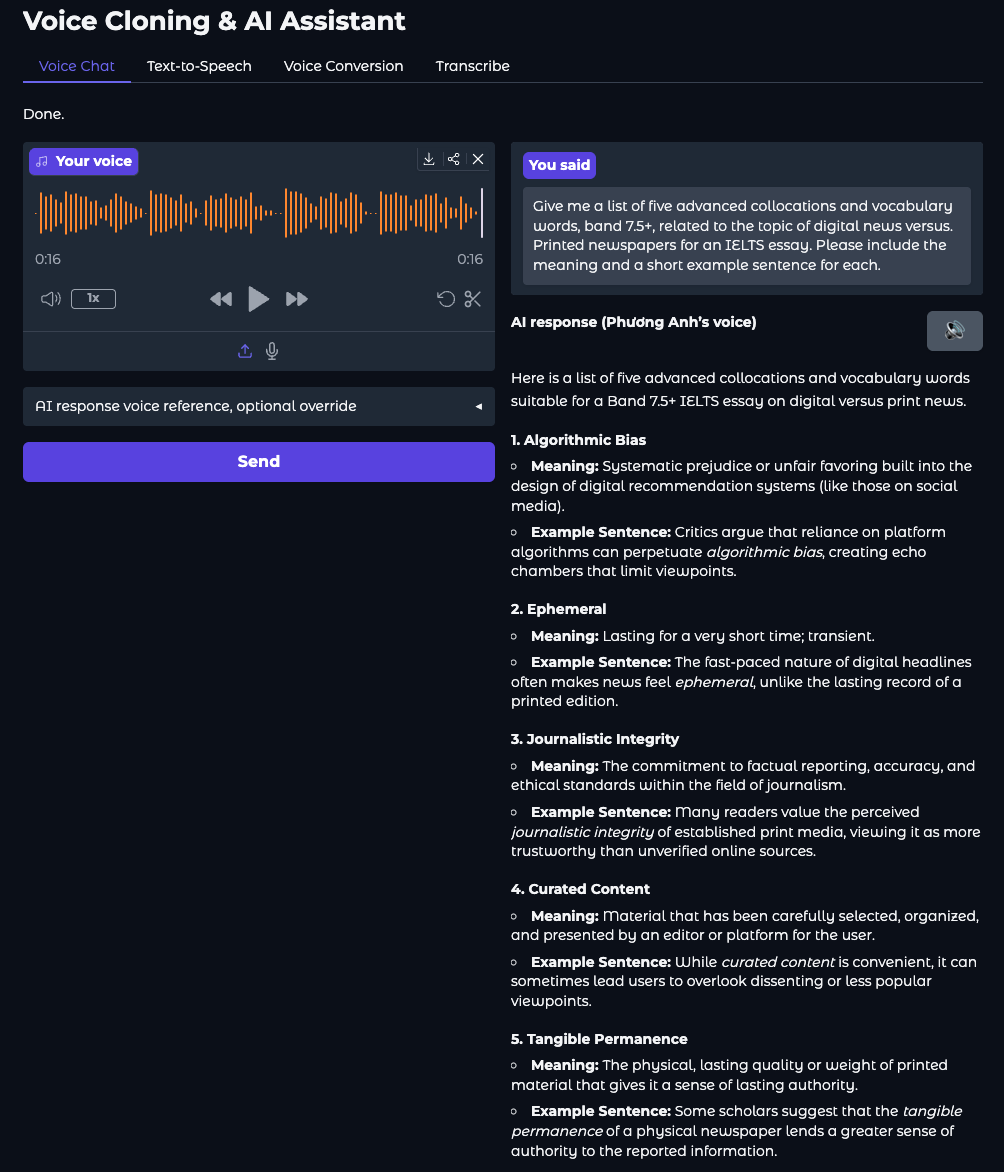
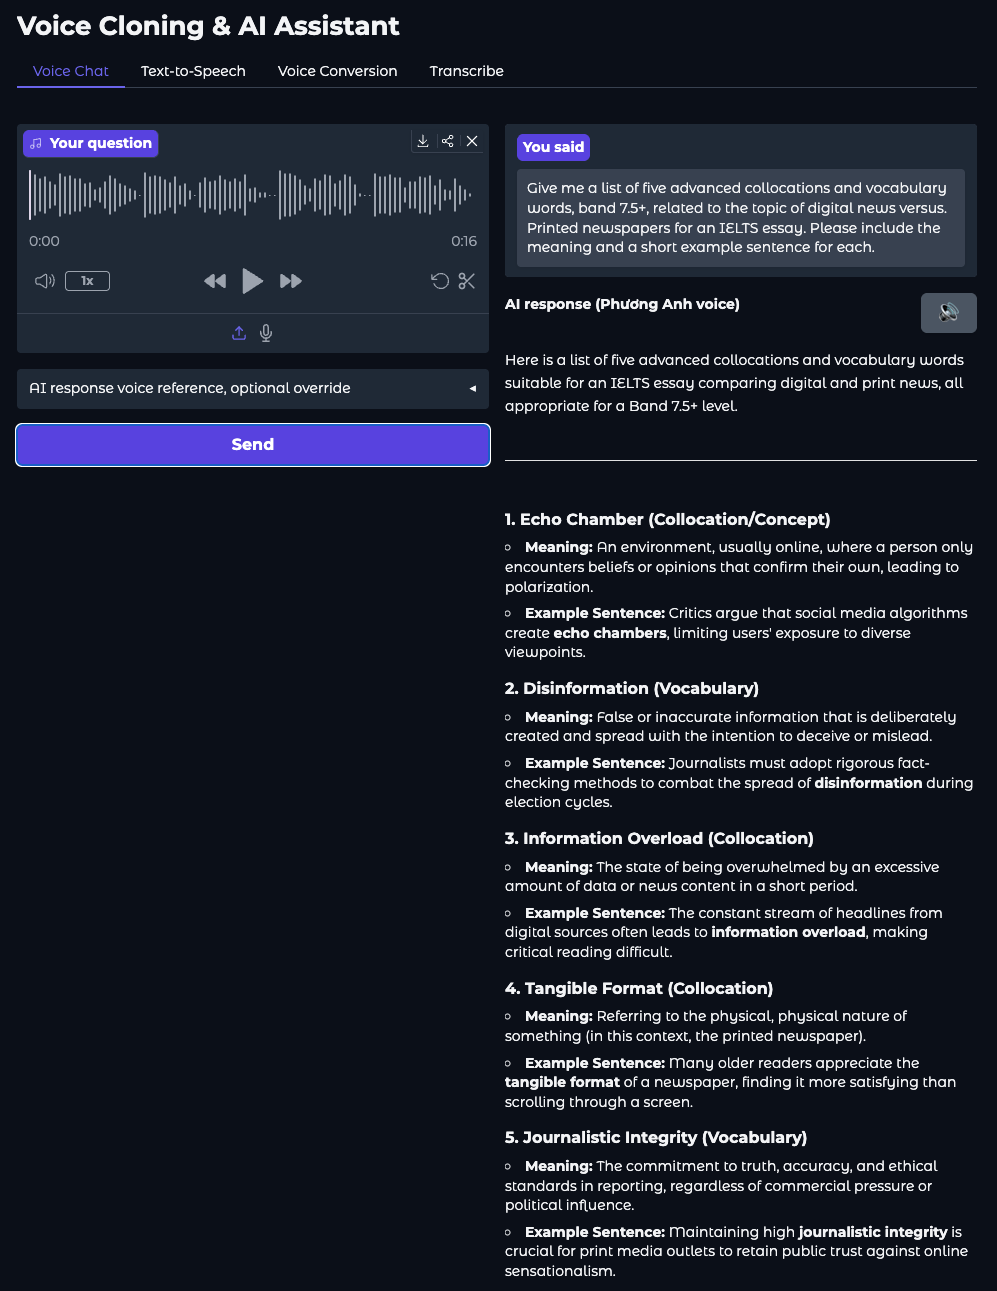
chore: update chat ux, readme, add ref transcript

Changed region(s): [[0.0, 0.0, 0.995, 1.0], [0.4353, 0.0307, 0.4975, 0.0614]]

diff --git a/ui/app.py b/ui/app.py
@@ -101,7 +101,7 @@ def on_chat(
         yield "Error: AI returned an empty response.", user_text, "", "", None
         return
 
-    yield "Done.", user_text, ai_text, ai_text, None
+    yield "", user_text, ai_text, ai_text, None
 
 
 def on_chat_speak(
@@ -267,7 +267,7 @@ def build_app() -> gr.Blocks:
                         chat_audio_in = gr.Audio(
                             sources=["microphone", "upload"],
                             type="filepath",
-                            label="Your voice",
+                            label="Your question",
                         )
                         with gr.Accordion(
                             "AI response voice reference, optional override", open=False

diff --git a/README.md b/README.md
@@ -6,13 +6,19 @@ Zero shot voice cloning: Clone any voice from a 10 to 30s audio sample. No train
 
 ## Demo
 
-**AI assistant:** LLM is **Gemma**
+**Assistant:** **Google Gemma 4** via [Ollama](https://ollama.com) + [Anything-LLM](https://github.com/Mintplex-Labs/anything-llm).
 
 ![Demo UI](docs/images/demo.png)
 
-**Voice cloning:** (reference audio -> cloned speech). Default: `audio/reference/phuong_anh.wav` (my friend’s voice, with no voice licensing).
+**Voice cloning:** short reference clip -> speech in that timbre.
 
 <video src="https://github.com/user-attachments/assets/350ab4ae-8efc-4d35-9ed3-310042c8ef68" controls width="100%"></video>
+
+### Bundled timbre
+
+**Phương Anh** (my special friend; personal recording for this repo, with permission).
+
+Your own clip: paths and transcript in `.env` (see [`.env.example`](.env.example)).
 
 ## Stack
 
@@ -21,7 +27,7 @@ Zero shot voice cloning: Clone any voice from a 10 to 30s audio sample. No train
 | STT | [SYSTRAN/faster-whisper](https://github.com/SYSTRAN/faster-whisper) |
 | TTS | [fishaudio/fish-speech](https://github.com/fishaudio/fish-speech) + [pnnbao97/VieNeu-TTS](https://github.com/pnnbao97/VieNeu-TTS) |
 | Voice Conversion | [IAHispano/Applio](https://github.com/IAHispano/Applio) (RVC) |
-| LLM | [Google Gemma](https://ai.google.dev/gemma) (e.g. Gemma 4 via [Ollama](https://ollama.com)) + [Anything-LLM](https://github.com/Mintplex-Labs/anything-llm) |
+| LLM | [Gemma 4](https://ai.google.dev/gemma) via [Ollama](https://ollama.com) + [Anything-LLM](https://github.com/Mintplex-Labs/anything-llm) |
 | Backend | [FastAPI](https://github.com/fastapi/fastapi) + [Pydantic](https://github.com/pydantic/pydantic) |
 | Frontend | [Gradio](https://github.com/gradio-app/gradio) |
 
@@ -55,12 +61,12 @@ Zero shot voice cloning: Clone any voice from a 10 to 30s audio sample. No train
 | Voice conversion | `/convert-voice` | `WAV + RVC .pth -> RVC -> converted WAV` |
 | Conversation (one shot) | `/chat` | `Mic -> STT -> LLM -> TTS -> WAV`. E.g. `make chat_sample`, `api_client.chat()` |
 | LLM only | `/llm/chat` | JSON `{"message": "..."}` -> assistant text (proxied to `:8004`) |
-| Voice Chat (Gradio) | `/transcribe` + `/llm/chat` + `/tts/*` | Same stages as `/chat`, split for progress UI; fish ref defaults to tracked `audio/reference/phuong_anh.wav`, or upload / env override |
+| Voice Chat (Gradio) | `/transcribe` + `/llm/chat` + `/tts/*` | Same stages as `/chat`, split for progress UI; fish ref: bundled default, upload, or env (see `.env.example`) |
 
 ## Requirements
 
 - [Miniforge](https://github.com/conda-forge/miniforge) + `ffmpeg`
-- [Ollama](https://ollama.com) (pull your model, e.g. `ollama pull gemma4`) + [Anything-LLM](https://anythingllm.com) (workspace uses that model)
+- [Ollama](https://ollama.com) (`ollama pull gemma4` for Gemma 4) + [Anything-LLM](https://anythingllm.com) (workspace uses that model)
 
 ## Usage
 
@@ -78,14 +84,14 @@ Default TTS is **fish-speech** (`make run_tts` uses conda env `voice_fish`). Vie
 make run_tts_vieneu   # VieNeu only (conda env voice)
 ```
 
-`POST /chat` uses the same fish ref rule: default file `audio/reference/phuong_anh.wav` (your reference clip, versioned in git), or `CHAT_FISH_REF_AUDIO` / `VOICE_CHAT_FISH_REF_AUDIO`. Set `VOICE_CHAT_FISH_REF_TEXT` / `CHAT_FISH_REF_TEXT` to the exact transcript of that clip for best quality.
+`POST /chat` resolves fish reference like Voice Chat: bundled default unless `CHAT_FISH_REF_AUDIO` / `VOICE_CHAT_FISH_REF_AUDIO` is set. Set the matching `*_REF_TEXT` in `.env` for best quality (see `.env.example`).
 
 ### API
 
 ```bash
 curl http://localhost:8000/health
 
-# Needs fish TTS running + default ref audio/reference/phuong_anh.wav (or CHAT_* / VOICE_* env) + matching ref_text
+# Needs fish TTS + default ref (repo or CHAT_* / VOICE_* in .env) + matching ref_text
 curl -X POST http://localhost:8000/chat \
     -F "audio=@data/chunks/speech_chunk_0001.wav" -o response.wav
 
